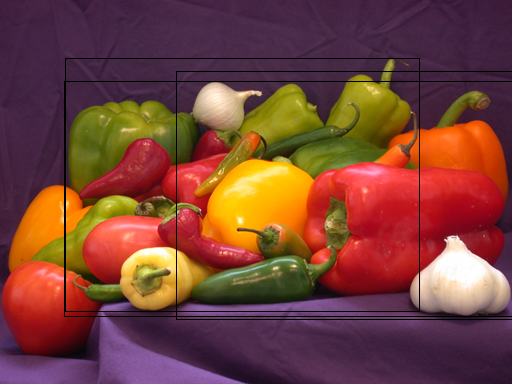
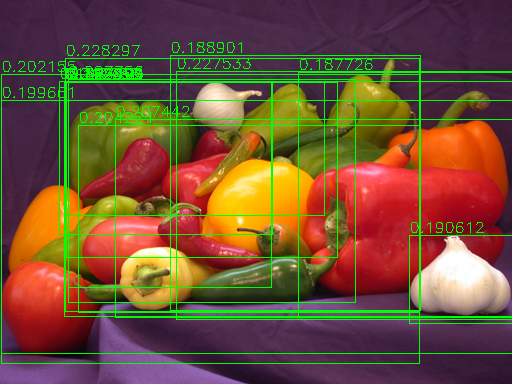
fix some bugs

diff --git a/src/edgeBoxes.cpp b/src/edgeBoxes.cpp
@@ -40,8 +40,7 @@ void edgebox(string picname, _model model, _para o) {
     E = edgesNms(E, O, 2, 0, 1, model.opts.nThreads);
     Mat bbs;
     bbs = edgebox_main(E, O, o) * shrink;
-
-
+    cout << "time:" << ((double) clock() - begin) / CLOCKS_PER_SEC << "s" << endl;
 
     string picsuffix = ".png";
     unsigned long picfolderxpos = picname.find("/");
@@ -72,7 +71,9 @@ void edgebox(string picname, _model model, _para o) {
         Mat box;
         box = I.colRange(tlx, brx).rowRange(tly, bry);
 
-        rectangle(I_draw, p1, p2,(0,255,0), 1);
+        rectangle(I_draw, p1, p2,Scalar(0,255,0), 1);
+        Point2f ptext(bbs.at<float>(i, 0), bbs.at<float>(i, 1)-3);
+        putText(I_draw,to_string(bbs.at<float>(i,4)),ptext,FONT_HERSHEY_SIMPLEX,0.5,Scalar(0,255,0),1);
 
     }
 

diff --git a/parameters.cpp b/parameters.cpp
@@ -36,7 +36,7 @@ _model loadmodel() {
 
     mat_t *matfp;
     matvar_t *model;
-    matfp = Mat_Open("data/model.mat", MAT_ACC_RDONLY);
+    matfp = Mat_Open("model/model.mat", MAT_ACC_RDONLY);
     assert(matfp != NULL);
     model = Mat_VarRead(matfp, "model");
     assert(model != NULL);

diff --git a/main.cpp b/main.cpp
@@ -35,9 +35,7 @@ int main() {
 
 
     string picname = "img/peppers.png";
-    clock_t begin = clock();
     edgebox(picname, model, para);
-    cout << "time:" << ((double) clock() - begin) / CLOCKS_PER_SEC << endl;
     std::cout << "Done!" << std::endl;//for test
     return 0;
 }
